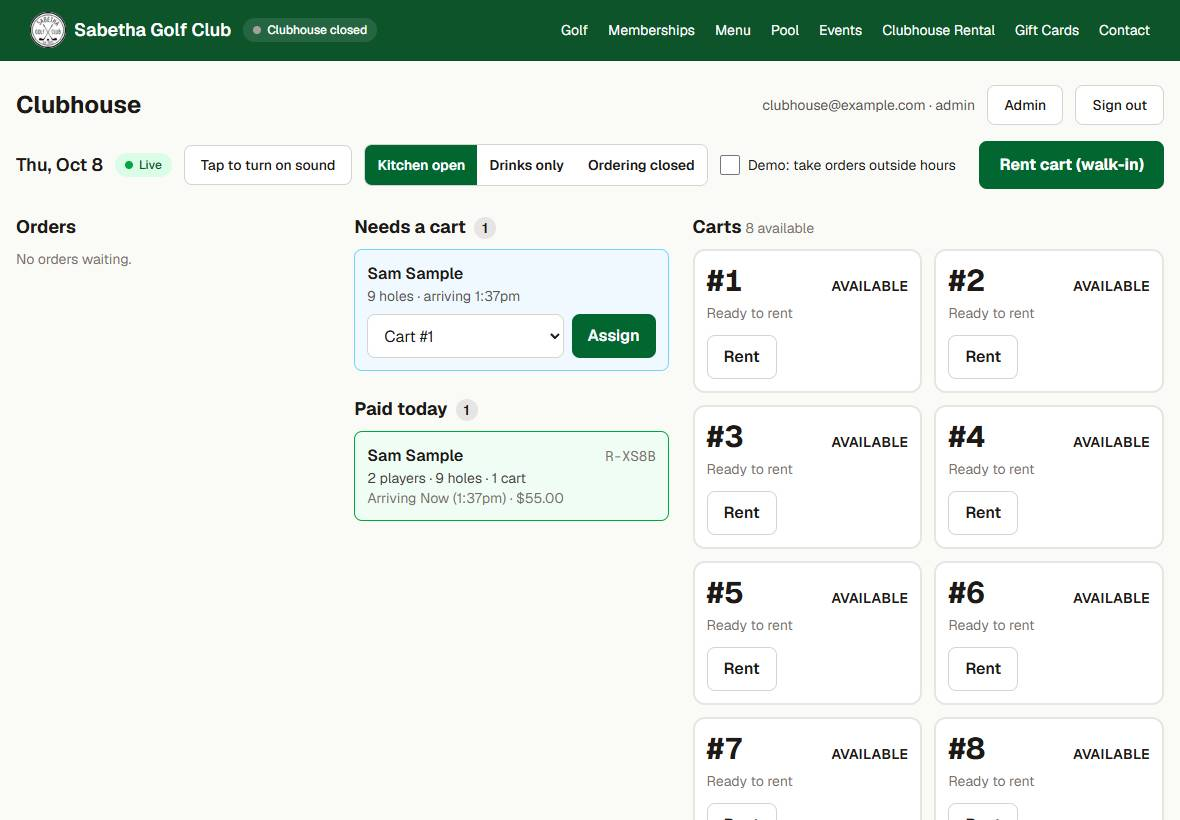
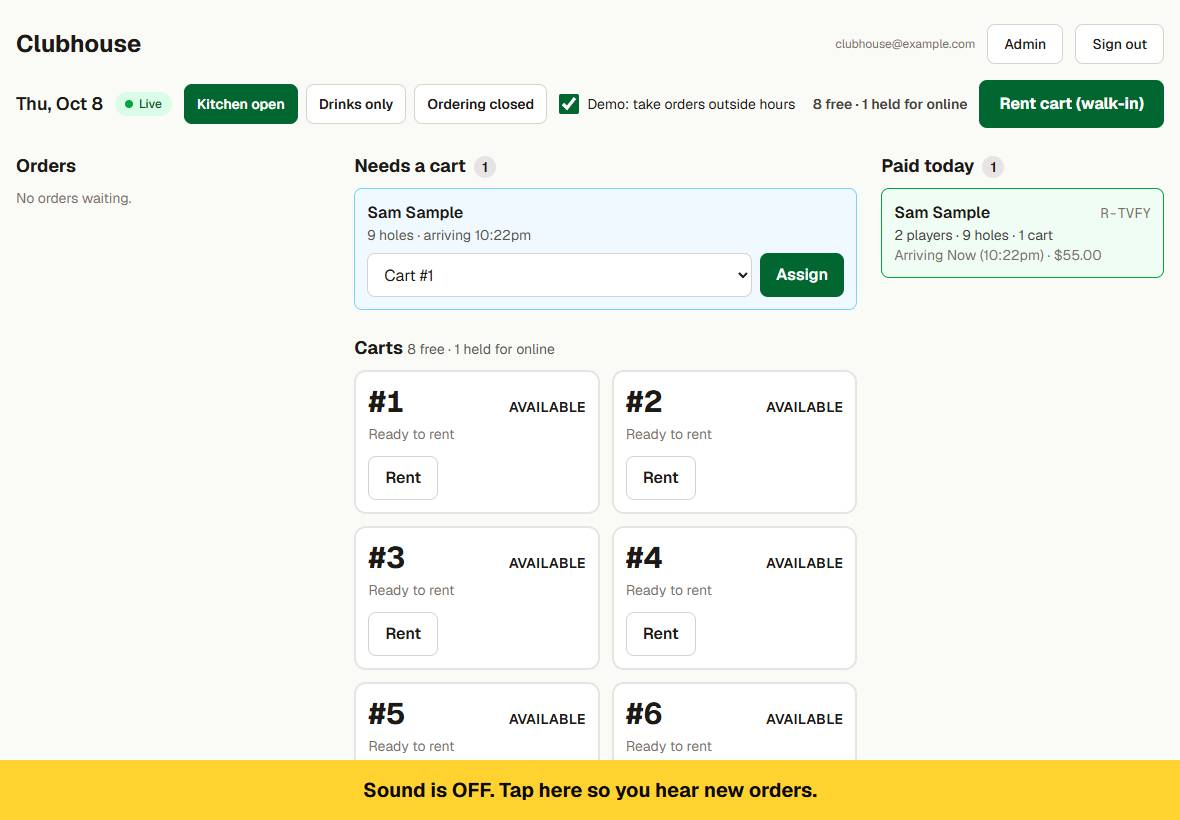
Refresh the pitch walkthrough after the audit fix round
Retakes docs/demo screenshots from the live site on a clean demo database
and updates docs/DEMO.md for what changed: logins already set up, the
amber sound bar, optional email, cart price, wallets, safe retries, held
carts, Undo, the sample delivery time and tap-to-call, and the new timings.
The walkthrough now scrolls to the top before each tablet screenshot.

diff --git a/docs/DEMO.md b/docs/DEMO.md
@@ -1,16 +1,13 @@
 # Pitch demo: phone + tablet walkthrough
 
-How to show the Sabetha Golf Club systems to the manager and board, with one phone (the golfer) and one tablet (the clubhouse counter). Every step below was run on the live site, https://sabetha-golf-course.vercel.app, on 2026-10-08 with `npm run e2e:demo` (script: `e2e/demo-walkthrough.cjs`). Screenshots in `docs/demo/` come from that run.
+How to show the Sabetha Golf Club systems to the manager and board, with one phone (the golfer) and one tablet (the clubhouse counter). Every step below was run on the live site, https://sabetha-golf-course.vercel.app, on 2026-10-08 with `npm run e2e:demo` (script: `e2e/demo-walkthrough.cjs`), last after the audit fix round (PRs #38–#45). Screenshots in `docs/demo/` come from that run; refresh them with `npm run e2e:demo -- <url> --docs`.
 
 Everything is in **demo mode**: payments go to the Square **sandbox** (no real money), and prices, drinks, membership types and the cart count are **samples** until the club confirms them (PLAN.md section 7).
 
 ## Before the pitch
 
-1. **Create your own logins** (there are none right now; test accounts are deleted after every run):
-   - Supabase dashboard → Authentication → Users → **Add user** (email + password, auto-confirm). Make one for you, and optionally one for the counter tablet.
-   - `npm run staff:role -- <your-email> admin` (admin can see the Demo switch and the Admin pages). Use `staff` for a counter-only login.
-   - In Supabase → Authentication → Sign In / Providers, turn **off** "Allow new users to sign up".
-2. **Tablet**: open `/staff`, sign in, tap **Tap to turn on sound** (tablets block audio until a tap), and check the **Live** dot is green.
+1. **Logins**: your admin login exists and sign-ups are turned off. For a separate counter-only tablet login: Supabase dashboard → Authentication → Users → **Add user** (auto-confirm), then `npm run staff:role -- <email> staff`.
+2. **Tablet**: open `/staff`, sign in, tap the amber **Sound is OFF** bar (tablets block audio until a tap), and check the **Live** dot is green with no amber "Not updating" bar.
 3. **If the clubhouse is closed during the pitch** (it is Mon–Tue, and before 4:30pm Wed–Fri): tick **Demo: take orders outside hours** on the tablet. Without it, Order to the Course correctly says the clubhouse is closed. Untick it afterwards.
 4. **Print the signs** (optional but it lands well): Admin → **QR signs** → print the hole #1 sign and the hole 5 tee sign. Have people scan them with their own phones.
 5. Test card for every payment: **4111 1111 1111 1111**, any future date (e.g. 12/30), CVV **111**, ZIP 66534.
@@ -21,10 +18,12 @@ Lead with the two problems they already feel: **the honor box at hole #1** and *
 
 ### 1. Pay to Play replaces the honor box
 
-On the phone, scan the hole #1 sign (or tap **Pay to Play** on the home page). Pick 2 players, 1 cart, arriving **Now**, enter a name, phone and email.
+On the phone, scan the hole #1 sign (or tap **Pay to Play** on the home page). Pick 2 players, 1 cart, arriving **Now**, enter a name and phone (email is optional).
 
 - The price is worked out live from the club's rates (weekday/weekend, 9/18 holes, carts): 2 × 9 holes weekday $40 + 1 cart $15 = **$55.00**.
-- It checks a cart is free before taking money.
+- It checks a cart is free before taking money, and shows the cart price up front ("$15 each").
+- On phones that support it, **Apple Pay / Google Pay** buttons appear above the card form: no typing a card number on the course (see Wallets below).
+- Bad signal is safe: if the connection drops mid-payment, tapping Pay again can't charge twice.
 
 | Pay form                                                   | Receipt                                                |
 | ---------------------------------------------------------- | ------------------------------------------------------ |
@@ -34,7 +33,7 @@ Pay with the test card. The **receipt is the confirmation**: a short code, a QR,
 
 ### 2. It shows up on the tablet by itself
 
-Point at the tablet: the round appears under **Paid today** and **Needs a cart** within about a second, with a chime. Nobody refreshed anything. (Measured: 0.5–0.9 s after the receipt.)
+Point at the tablet: the round appears under **Paid today** and **Needs a cart** within about a second, with a chime. Nobody refreshed anything. (Measured: 0.4–0.9 s after the receipt.)
 
 ![Tablet: paid today and needs a cart](demo/04-tablet-paid-today.jpg)
 
@@ -43,7 +42,8 @@ Point at the tablet: the round appears under **Paid today** and **Needs a cart**
 Tap **Assign** (it suggests a free cart), put the key and the "Reserved for Sam" sign in the cart, tap **Ready**. Later, **Out** when they drive off and **Returned** when it comes back.
 
 - Walk-ins still pay at the counter as today; **Rent cart (walk-in)** just logs which cart went out. That is the paper sheet, done.
-- Carts in use can't be double-booked online, and Pay to Play only offers what is actually free.
+- Carts in use can't be double-booked online, and Pay to Play only offers what is actually free. When online payers are still waiting, the board says e.g. "4 free · 2 held for online" so a walk-in doesn't take their cart.
+- A mis-tap on **Returned** or **Delivered** has a 10-second **Undo**.
 
 ![Tablet: cart #1 ready](demo/05-tablet-cart-ready.jpg)
 
@@ -55,13 +55,13 @@ On the phone, scan the hole 5 tee sign (`/order?hole=5`, so the hole is already 
 | ------------------------------------------------------ | --------------------------------------------------- |
 | ![Order menu on a phone](demo/06-phone-order-menu.jpg) | ![Order received](demo/07-phone-order-received.jpg) |
 
-The tablet shows the order straight away (0.1 s), marked **Hole 5** and **21+ CHECK ID** because there's a beer in it.
+The tablet shows the order straight away (0.1–0.4 s), marked **Hole 5** and **21+ CHECK ID** because there's a beer in it.
 
 ![Tablet: new order from hole 5](demo/08-tablet-order-new.jpg)
 
 ### 5. Walk it through to Delivered
 
-On the tablet tap **Start** → **Send out** → **Delivered**. The golfer's phone follows along: Received → Preparing → On the way → Delivered. The phone checks every 5 seconds, so allow a moment (measured 5.2–5.4 s per step).
+On the tablet tap **Start** → **Send out** → **Delivered**. The golfer's phone follows along: Received → Preparing → On the way → Delivered. The phone checks every 5 seconds, so allow a moment (measured 4.9–5.4 s per step). The status page also says how long it usually takes ("Usually 10–20 minutes", marked Sample until the club gives its number; set in Admin → Prices & hours) and has a tap-to-call link if they move holes.
 
 | On the way                                         | Delivered                                        |
 | -------------------------------------------------- | ------------------------------------------------ |
@@ -74,25 +74,25 @@ If the kitchen is closing for an event, tap **Drinks only** or **Ordering closed
 - **Memberships**: apply online (lands in Admin → Applications & dues for the Club Secretary) and pay dues in full or in halves (March 1 / June 1).
 - **Admin** (`/admin`): change green fees, cart prices, clubhouse hours, the menu, membership types and carts. Changes show on the website immediately. **Export** downloads CSVs of rounds, orders and dues to match against Square.
 - **QR signs**: hole #1, all nine tee boxes, cart stickers.
-- The public site: hours with an Open/Closed badge, rates, the menu as real text (it was a photo), pool, events, clubhouse rental, contact.
+- The public site: an Open/Closed badge that says when the clubhouse opens next, rates, the menu as real text (it was a photo), pool, events, clubhouse rental, contact, and the phone and directions in every page's footer.
 
 ## What the run checked
 
-From `npm run e2e:demo -- https://sabetha-golf-course.vercel.app` (three clean runs):
+From `npm run e2e:demo -- https://sabetha-golf-course.vercel.app` (clean runs before and after the audit fix round):
 
-| Step                                                      | Result                      |
-| --------------------------------------------------------- | --------------------------- |
-| Tablet signs in, board Live                               | ✅                          |
-| Phone pays for 2 players + 1 cart ($55.00, sandbox)       | ✅ receipt code shown       |
-| Round appears on tablet without refresh                   | ✅ 0.5–0.9 s                |
-| Assign cart, tap Ready                                    | ✅                          |
-| Drink order from hole 5 (sandbox)                         | ✅                          |
-| Order appears on tablet                                   | ✅ 0.1 s, with 21+ badge    |
-| Start / Send out → phone updates                          | ✅ about 5 s each (polling) |
-| Delivered → leaves the queue, phone shows Delivered       | ✅                          |
-| 13 public pages on a phone: no sideways scrolling         | ✅                          |
-| 8 staff/admin screens on a tablet, landscape and portrait | ✅                          |
-| Page errors                                               | none                        |
+| Step                                                      | Result                       |
+| --------------------------------------------------------- | ---------------------------- |
+| Tablet signs in, board Live                               | ✅                           |
+| Phone pays for 2 players + 1 cart ($55.00, sandbox)       | ✅ receipt code shown        |
+| Round appears on tablet without refresh                   | ✅ 0.4–0.9 s                 |
+| Assign cart, tap Ready                                    | ✅                           |
+| Drink order from hole 5 (sandbox)                         | ✅                           |
+| Order appears on tablet                                   | ✅ 0.1–0.4 s, with 21+ badge |
+| Start / Send out → phone updates                          | ✅ about 5 s each (polling)  |
+| Delivered → leaves the queue, phone shows Delivered       | ✅                           |
+| 13 public pages on a phone: no sideways scrolling         | ✅                           |
+| 8 staff/admin screens on a tablet, landscape and portrait | ✅                           |
+| Page errors                                               | none                         |
 
 The script deletes its test round, order and login afterwards and puts the demo switch and kitchen status back.
 
